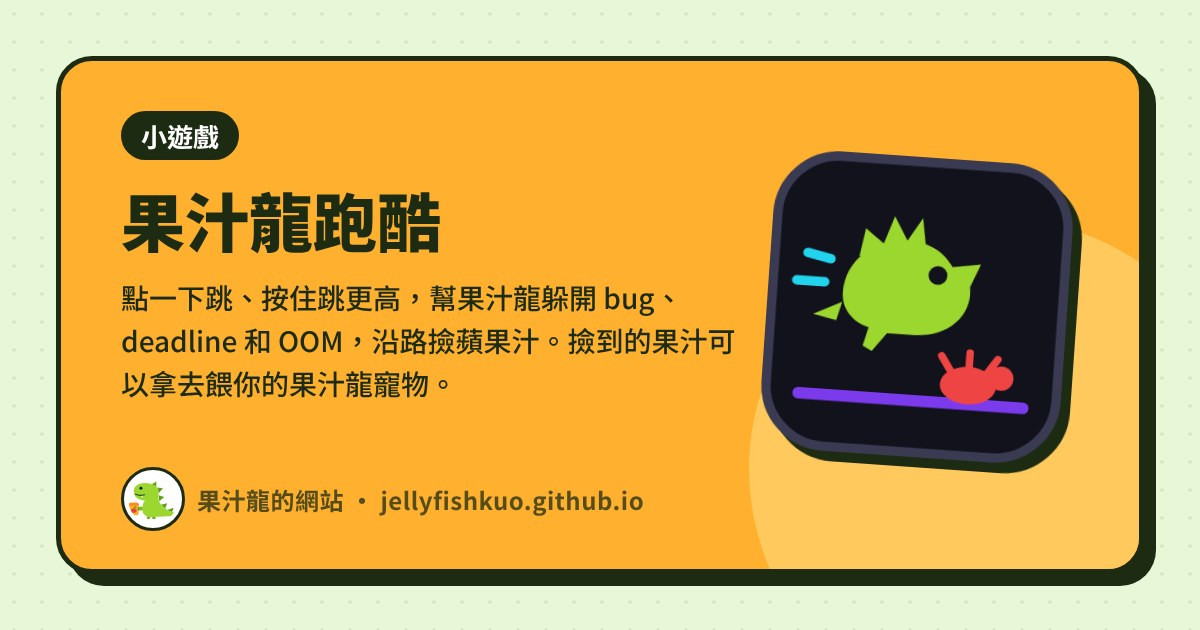
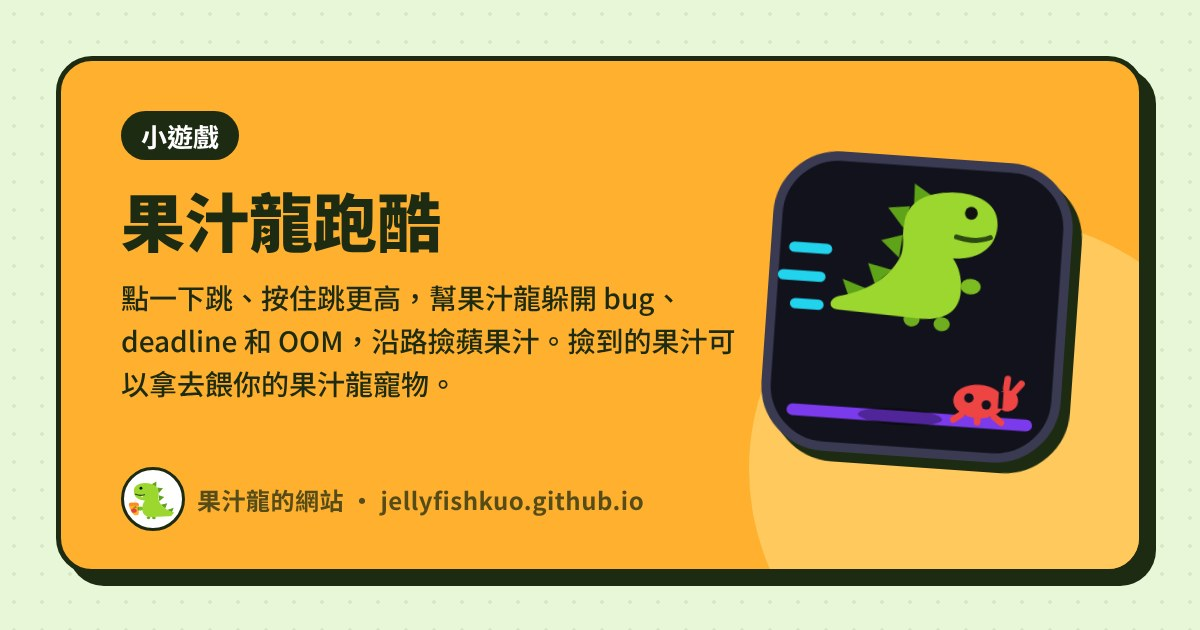
果汁龍跑酷：重畫圖示（換成跟網站同一隻果汁龍、朝右跳過地上的 bug），重產 PNG 與分享預覽圖
Claude-Session: https://claude.ai/code/session_01GoNmPb6KQ2bTdSgXNimVdN

Changed region(s): [[0.6475, 0.3016, 0.8633, 0.6937]]

diff --git a/tools/theme/icons_light.py b/tools/theme/icons_light.py
@@ -88,10 +88,14 @@ PROJECTS = {
               ('stroke="#facc15"', 'stroke="#e8413c"')],
     'chess': [('<g fill="#ffffff">', f'<g fill="#ffffff" stroke="{INK}" stroke-width="2" stroke-linejoin="round">')],
     'runner': [('stroke="#7c3aed"', f'stroke="{INK}"'),
-               ('z" fill="#9bd72f"/>', f'z" fill="#9bd72f" stroke="{INK}" stroke-width="2" stroke-linejoin="round"/>'),
-               ('r="2" fill="#12121c"', f'r="2" fill="{INK}"'),
-               ('3-5 1 6" fill="#9bd72f"/>', f'3-5 1 6" fill="#9bd72f" stroke="{INK}" stroke-width="1.6" stroke-linejoin="round"/>'),
-               ('rx="6" ry="4" fill="#ef4444"/>', f'rx="6" ry="4" fill="#ff4d3d" stroke="{INK}" stroke-width="1.8"/>'),
+               ('fill="#000000" opacity="0.35"', 'fill="#1d2b12" opacity="0.2"'),
+               ('Z" fill="#9bd72f"/>', f'Z" fill="#9bd72f" stroke="{INK}" stroke-width="2.6" stroke-linejoin="round"/>'),
+               ('r="1.9" fill="#111111"', f'r="1.9" fill="{INK}"'),
+               ('rx="5.4" ry="3.6" fill="#ef4444"/>', f'rx="5.4" ry="3.6" fill="#ff4d3d" stroke="{INK}" stroke-width="1.6"/>'),
+               ('r="2.3" fill="#ef4444"/>', f'r="2.3" fill="#ff4d3d" stroke="{INK}" stroke-width="1.4"/>'),
+               ('stroke="#ef4444" stroke-width="1.4"', f'stroke="{INK}" stroke-width="1.4"'),
+               ('stroke="#12121c" stroke-width="1"', f'stroke="{INK}" stroke-width="1"'),
+               ('r="1" fill="#12121c"', f'r="1" fill="{INK}"'),
                ('stroke="#22d3ee"', 'stroke="#0e7490"')],
 }
 # 立式五子棋的底板本身就是棋盤：淺色用遊戲淺色版的橘色棋盤
